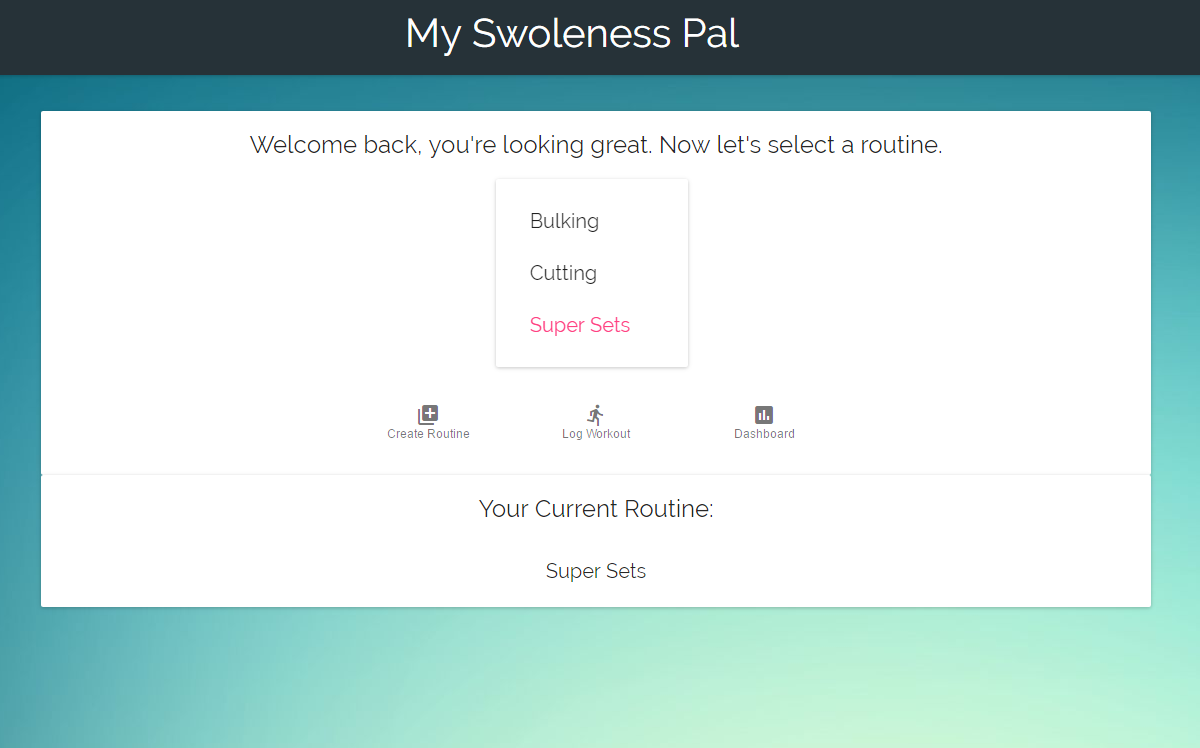
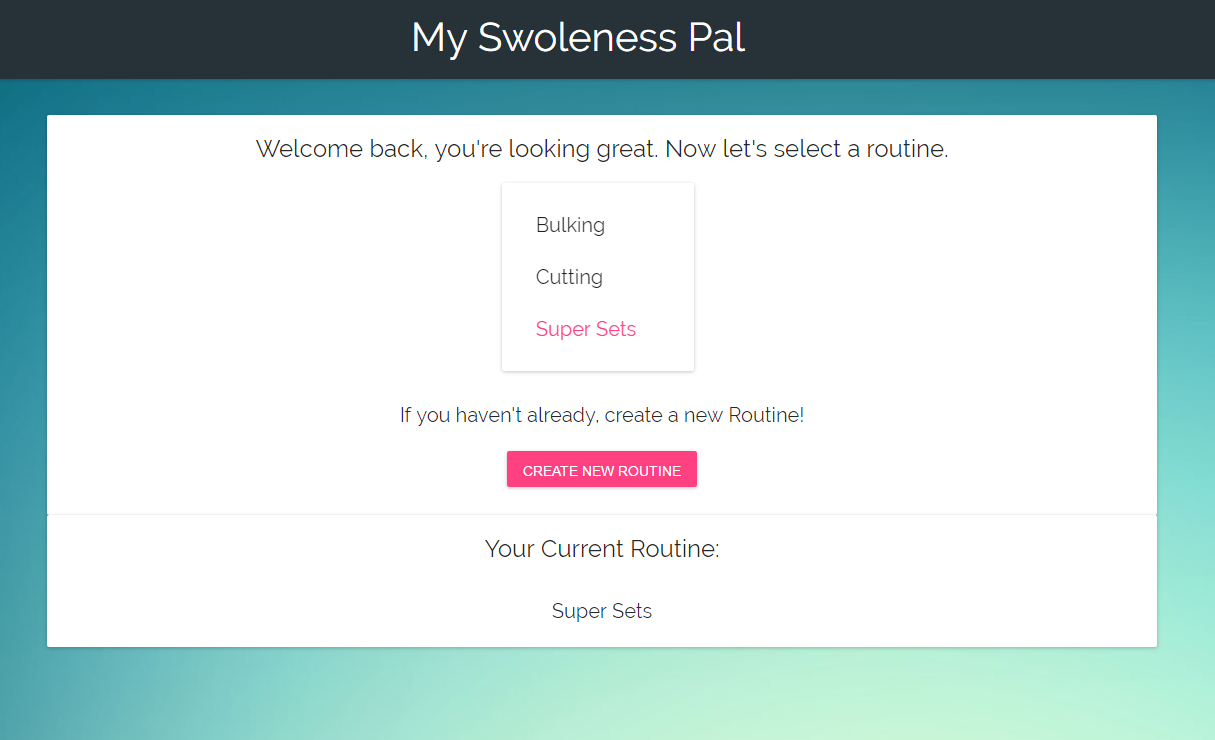
changed profile page again to add button instead of dashboard, removed component

diff --git a/imports/ui/pages/UserProfile.jsx b/imports/ui/pages/UserProfile.jsx
@@ -4,6 +4,7 @@ import { Component } from 'react';
 
 // Import Material-UI components
 import { Container, Row, Col, Visible, Hidden } from 'react-grid-system';
+import { browserHistory } from 'react-router';
 import ExpandTransition from 'material-ui/internal/ExpandTransition';
 import {List, ListItem} from 'material-ui/List';
 import {Card, CardActions, CardHeader, CardMedia, CardTitle, CardText} from 'material-ui/Card';
@@ -13,14 +14,12 @@ import MenuItem from 'material-ui/MenuItem';
 import Divider from 'material-ui/Divider';
 import style from '../../../client/styles.js';
 
-// Import Components
-import ProfileNav from '../components/ProfileNav';
 
 class UserProfile extends Component{
 
 	constructor(props){
-    	super(props);
-    	this.state = {routine_ids : [], routines: [], value: "", currentRoutineName: ""};
+    super(props);
+    this.state = {routine_ids : [], routines: [], value: "", currentRoutineName: ""};
 	}
 
 
@@ -40,7 +39,6 @@ class UserProfile extends Component{
 			console.log(value);
 			console.log("updated current routine");
 		})		
-
 	} 
 
 	componentWillMount(){
@@ -62,6 +60,7 @@ class UserProfile extends Component{
 			this.setState({routines: res})
 		})
 	}
+
 	componentDidMount(){
 
 		Meteor.call("getCurrentRoutine", (err,res) => {
@@ -71,6 +70,7 @@ class UserProfile extends Component{
 
 		})
 	}
+
 	renderRoutines(){
 		let routines = this.state.routines;
 
@@ -80,8 +80,12 @@ class UserProfile extends Component{
 			);
 		});
 	}
-	 
 
+	_goToCreateWorkout () {
+    browserHistory.push('/workout/create');
+  }
+
+	 
 	render (){
 
 		return (
@@ -93,7 +97,7 @@ class UserProfile extends Component{
 						
 						<CardTitle title="Welcome back, you're looking great. Now let's select a routine." style={style.profileTitleStyle} />
 						
-				    <Row>
+				    <Row style={style.paddingStyle}>
 				    	<center>
 				    		<DropDownMenu style={style.dropdownStyle} value={this.state.value} onChange={this.handleChange.bind(this)}>
 				    			{this.renderRoutines()}
@@ -101,8 +105,20 @@ class UserProfile extends Component{
 				    	</center>
 				    </Row>
 
-				    <CardText>
-			        <ProfileNav />
+				    <CardText style={style.cardTextStyle} >
+				    	<Row>
+					    	<center>
+					    		If you haven't already, create a new Routine!
+					    	</center>
+				    	</Row>
+				    	
+				    	<br />
+
+				    	<Row>
+					    	<center>
+					    		<RaisedButton label="Create New Routine" secondary={true}  onClick={this._goToCreateWorkout}/>
+					    	</center>
+				    	</Row>
 		        </CardText>
 			
 					</Card>

diff --git a/imports/ui/pages/SelectWorkout.jsx b/imports/ui/pages/SelectWorkout.jsx
@@ -16,6 +16,9 @@ import { Card, CardActions, CardHeader, CardText } from 'material-ui/Card';
 // Import Components
 import SelectWorkoutButton from '../components/SelectWorkoutButton';
 
+// Import Styles
+import style from '../../../client/styles.js';
+
 
 // Page Component
 class SelectWorkout extends Component {
@@ -87,9 +90,7 @@ class SelectWorkout extends Component {
         {/* Title with Date Picker */}
         <Row>
           <Card>
-            <CardHeader>
-              <h2>Select a Workout</h2>
-            </CardHeader>
+            
           </Card>
         </Row>
 
@@ -98,6 +99,9 @@ class SelectWorkout extends Component {
         {/* List of Excerises */}
         <Row>
           <Card>
+            <CardHeader style={style.selectTitle}>
+              <h2>Select a Workout</h2>
+            </CardHeader>
             <center>
               {/* ++++++++++ ITERATE OVER WORKOUT SELECTIONS ++++++++++ */}
               {this.state.workouts.map(function(search, i) {

diff --git a/client/styles.js b/client/styles.js
@@ -35,13 +35,23 @@ module.exports = {
     fontSize: 20,
     padding: 10
   },
-  profileNavStyle: {
-    paddingTop: 130
+  paddingStyle: {
+    paddingBottom: 130
   },
   routineName: {
     fontFamily: 'Raleway',
     fontSize: 20,
     textAlign: "center"
+  },
+  selectTitle: {
+    fontFamily: 'Raleway',
+    textAlign: "center"
+  },
+  cardTextStyle: {
+    fontFamily: 'Raleway',
+    fontSize: 20,
+    textAlign: "center",
+    padding: 20
   }
 
 }
